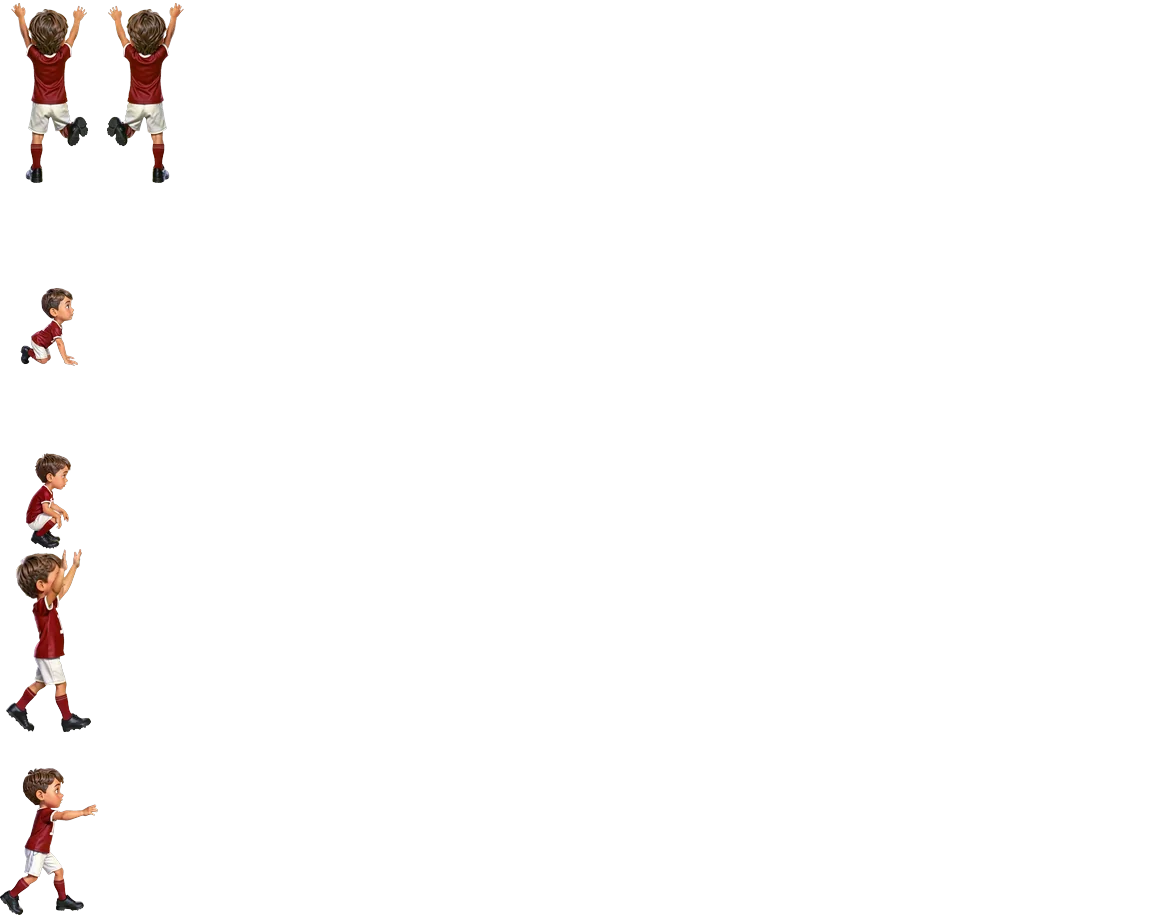
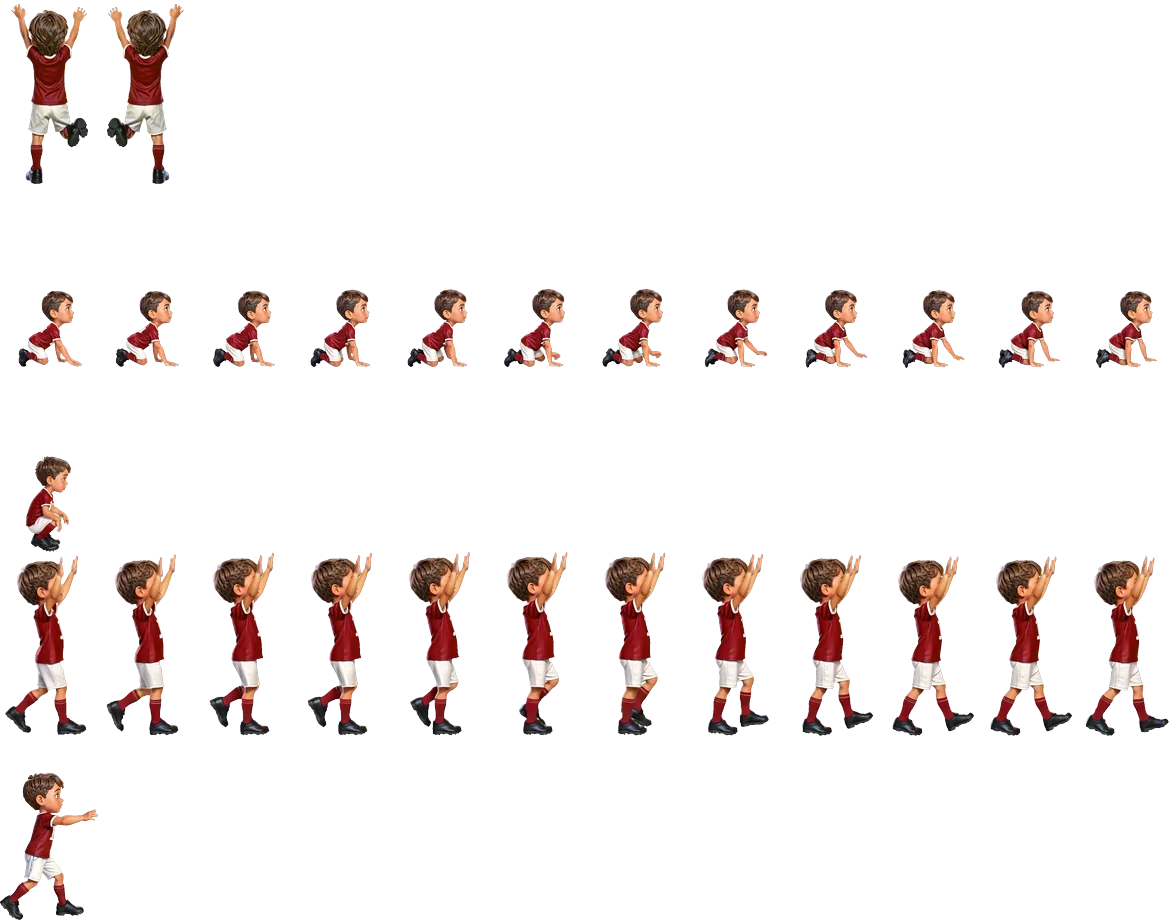
Jasmin Stage 2 : gestes ComfyUI animés pour 5 tenues d'Essil, Salma et Amine
Claude-Session: https://claude.ai/code/session_01Lr4SkBJnq1yRYGqqaX6PKr

diff --git a/jeux/stage2/heros/heros.js b/jeux/stage2/heros/heros.js
@@ -106,52 +106,52 @@ window.S2_GESTES = {
 },
 "amine-astro": {
 "cw": 99,
-"ch": 183,
+"ch": 184,
 "ref": 150,
 "n": [
 2,
+12,
 1,
-1,
-1,
+12,
 1
 ],
 "v": 2
 },
 "amine-foot": {
 "cw": 98,
-"ch": 183,
+"ch": 184,
 "ref": 150,
 "n": [
 2,
+12,
 1,
-1,
-1,
+12,
 1
 ],
 "v": 2
 },
 "amine-jebba": {
 "cw": 93,
-"ch": 183,
+"ch": 184,
 "ref": 150,
 "n": [
 2,
+12,
 1,
-1,
-1,
+12,
 1
 ],
 "v": 2
 },
 "amine-or": {
 "cw": 100,
-"ch": 183,
+"ch": 185,
 "ref": 150,
 "n": [
 2,
+12,
 1,
-1,
-1,
+12,
 1
 ],
 "v": 2
@@ -162,22 +162,22 @@ window.S2_GESTES = {
 "ref": 150,
 "n": [
 2,
+12,
 1,
-1,
-1,
+12,
 1
 ],
 "v": 2
 },
 "salma-astro": {
 "cw": 99,
-"ch": 183,
+"ch": 184,
 "ref": 150,
 "n": [
 2,
+12,
 1,
-1,
-1,
+12,
 1
 ],
 "v": 2
@@ -188,35 +188,35 @@ window.S2_GESTES = {
 "ref": 150,
 "n": [
 2,
+12,
 1,
-1,
-1,
+12,
 1
 ],
 "v": 2
 },
 "salma-jebba": {
 "cw": 94,
-"ch": 183,
+"ch": 184,
 "ref": 150,
 "n": [
 2,
+12,
 1,
-1,
-1,
+12,
 1
 ],
 "v": 2
 },
 "salma-or": {
 "cw": 101,
-"ch": 183,
+"ch": 184,
 "ref": 150,
 "n": [
 2,
+12,
 1,
-1,
-1,
+12,
 1
 ],
 "v": 2
@@ -227,74 +227,74 @@ window.S2_GESTES = {
 "ref": 150,
 "n": [
 2,
+12,
 1,
-1,
-1,
+12,
 1
 ],
 "v": 2
 },
 "essil-astro": {
 "cw": 102,
-"ch": 183,
+"ch": 184,
 "ref": 150,
 "n": [
 2,
+12,
 1,
-1,
-1,
+12,
 1
 ],
 "v": 2
 },
 "essil-foot": {
 "cw": 103,
-"ch": 183,
+"ch": 184,
 "ref": 150,
 "n": [
 2,
+12,
 1,
-1,
-1,
+12,
 1
 ],
 "v": 2
 },
 "essil-jebba": {
 "cw": 103,
-"ch": 183,
+"ch": 184,
 "ref": 150,
 "n": [
 2,
+12,
 1,
-1,
-1,
+12,
 1
 ],
 "v": 2
 },
 "essil-or": {
 "cw": 99,
-"ch": 183,
+"ch": 184,
 "ref": 150,
 "n": [
 2,
+12,
 1,
-1,
-1,
+12,
 1
 ],
 "v": 2
 },
 "essil-super": {
 "cw": 101,
-"ch": 183,
+"ch": 184,
 "ref": 150,
 "n": [
 2,
+12,
 1,
-1,
-1,
+12,
 1
 ],
 "v": 2

diff --git a/jeux/jasmin-stage2.html b/jeux/jasmin-stage2.html
@@ -136,7 +136,7 @@ body.touch.joue #tactile{display:block}
 <script src="stage2/cartes/m8.js?v=2"></script>
 <script src="stage2/cartes/m9.js?v=2"></script>
 <script src="stage2/cartes/m10.js?v=2"></script>
-<script src="stage2/heros/heros.js?v=3"></script>
+<script src="stage2/heros/heros.js?v=4"></script>
 <script src="stage2/moteur.js?v=4"></script>
 <script>
 'use strict';

diff --git a/version.js b/version.js
@@ -1,2 +1,2 @@
 // mis à jour par docs/outils/version.sh avant chaque commit
-window.SITE_VERSION = { v:'3.169', date:'15/11/2026' };
+window.SITE_VERSION = { v:'3.170', date:'15/11/2026' };

diff --git a/docs/jeux-3d.md b/docs/jeux-3d.md
@@ -136,7 +136,7 @@ Les enfants avaient fini les 24 mondes du Jasmin 3 : le Stage 2 est plus diffici
   1. Ruelles de la médina (Tunis) : apprendre ; 2. Toits de la médina : tuiles qui s'effondrent, auvents qui font rebondir, voleur, passage secret, levier ; 3. TGM et métro léger : trains qui vont et viennent, contrôleurs, **scooter** sur la route du bord de mer ; 4. Citernes de Carthage : **dans le noir** (lanternes), eau, pierres glissantes, chauves-souris, rats ; 5. Catacombes de Sousse : noir, trois galeries, rochers qui tombent, sol qui s'effondre, salle secrète avec la clé, porte ; 6. Port de La Goulette : barques, quai mouillé, crabes, **boss : le Crabe géant** ; 7. Chenini : terrasses et échelles, chèvres qui foncent, faucons, rochers, grenier secret ; 8. Sahara de Douz : sable mou, serpents cachés, **tapis volant** au-dessus du canyon ; 9. Souks de Kairouan : piles de tapis qui font rebondir, huile qui glisse, voleurs, clé tout en haut ; 10. Palais du Bardo : mosaïques cirées, gardes, grille et levier, **boss final : le Scorpion d'Or**.
 - **Terrains** (lettres des cartes, légende complète dans `niveaux.js`) : I glissant, Y sable mou (plus lent, saut plus bas), W eau (un morceau de vie en moins, retour au dernier endroit sûr), X tuile qui s'effondre (revient après 4 s), U rebond, T passage secret (par paires, de gauche à droite), R rocher qui tombe (il tremble avant), M/V plateformes, Q train, N scooter, A tapis volant.
 - **Ennemis** (personne ne meurt : on les chasse) : garde, garde qui poursuit, chien, marchand aux oranges, chat qui dort, oiseau (mouette ou faucon), chauve-souris (pendue au plafond, pique quand on passe), scorpion, crabe, rat, serpent (caché, sort quand on approche), voleur (prend jusqu'à 3 dinars et s'enfuit ; on les récupère en l'attrapant), contrôleur, chèvre (fonce, s'étourdit contre les murs). **Boss** : marche, charge (étourdi s'il se cogne au mur), tire (bulles, braises) ; on le touche avec les objets (jarres et pierres qui reviennent), et on lui saute dessus quand il est étourdi ★ ; 3/4/5 coups selon la difficulté ; la sortie s'ouvre quand il s'enfuit.
-- **Gestes du héros (ComfyUI)** : `docs/stage2/gestes.py` → `jeux/stage2/heros/<id>.webp` + `heros.js` (planche 12 × 5 : grimper de dos, ramper, accroupi, porter les bras levés, lancer), pour les 8 personnages en tenue de base (retouches FLUX de `houma_<id>.png` + vidéos Wan 2.2 pour ramper et porter). Avec une autre tenue, le héros garde l'ancien dessin (corps du Jasmin, écrasé ou retourné).
+- **Gestes du héros (ComfyUI)** : `docs/stage2/gestes.py` → `jeux/stage2/heros/<id>.webp` + `heros.js` (planche 12 × 5 : grimper de dos, ramper, accroupi, porter les bras levés, lancer), pour les 8 personnages en tenue de base, et pour Essil, Salma et Amine en tenues astronaute, foot, jebba, or et super-héros (clés `amine-astro`…) : retouches FLUX de `houma_<id>[_<tenue>].png` + vidéos Wan 2.2 pour ramper et porter. Tenues fête, pyjama, plage, tablier (pas d'image de départ dans ComfyUI) : le héros garde l'ancien dessin (corps du Jasmin, écrasé ou retourné).
 - **Fichiers** : `jeux/stage2/niveaux.js` (réglages, mondes, textes des panneaux), `cartes/m1…m10.js`, `moteur.js` (canvas 2D, 120 pas/s), `m<n>/` (décors), `en/` (ennemis fixes, scooter), `<nom>-anim.webp` (ennemis animés), `heros/`. Fabrication : `build_m1.py`, `build_mondes.py` (mondes 2-10), `bande_marchand.py`, `bande_comfy.py` (`SORTIE=jeux/stage2`), `gestes.py`, `cartes.py` + `verifie.py`.
 - Sauvegarde `stage2:<joueur>` (mondes ouverts, records) ; suivi `jasmin-s2` ; les dinars vont dans la bourse du Jasmin. Lien : menu du Jasmin 3 et mur des nouveautés. En portrait, la vue garde au moins 18 cases de large.
 
